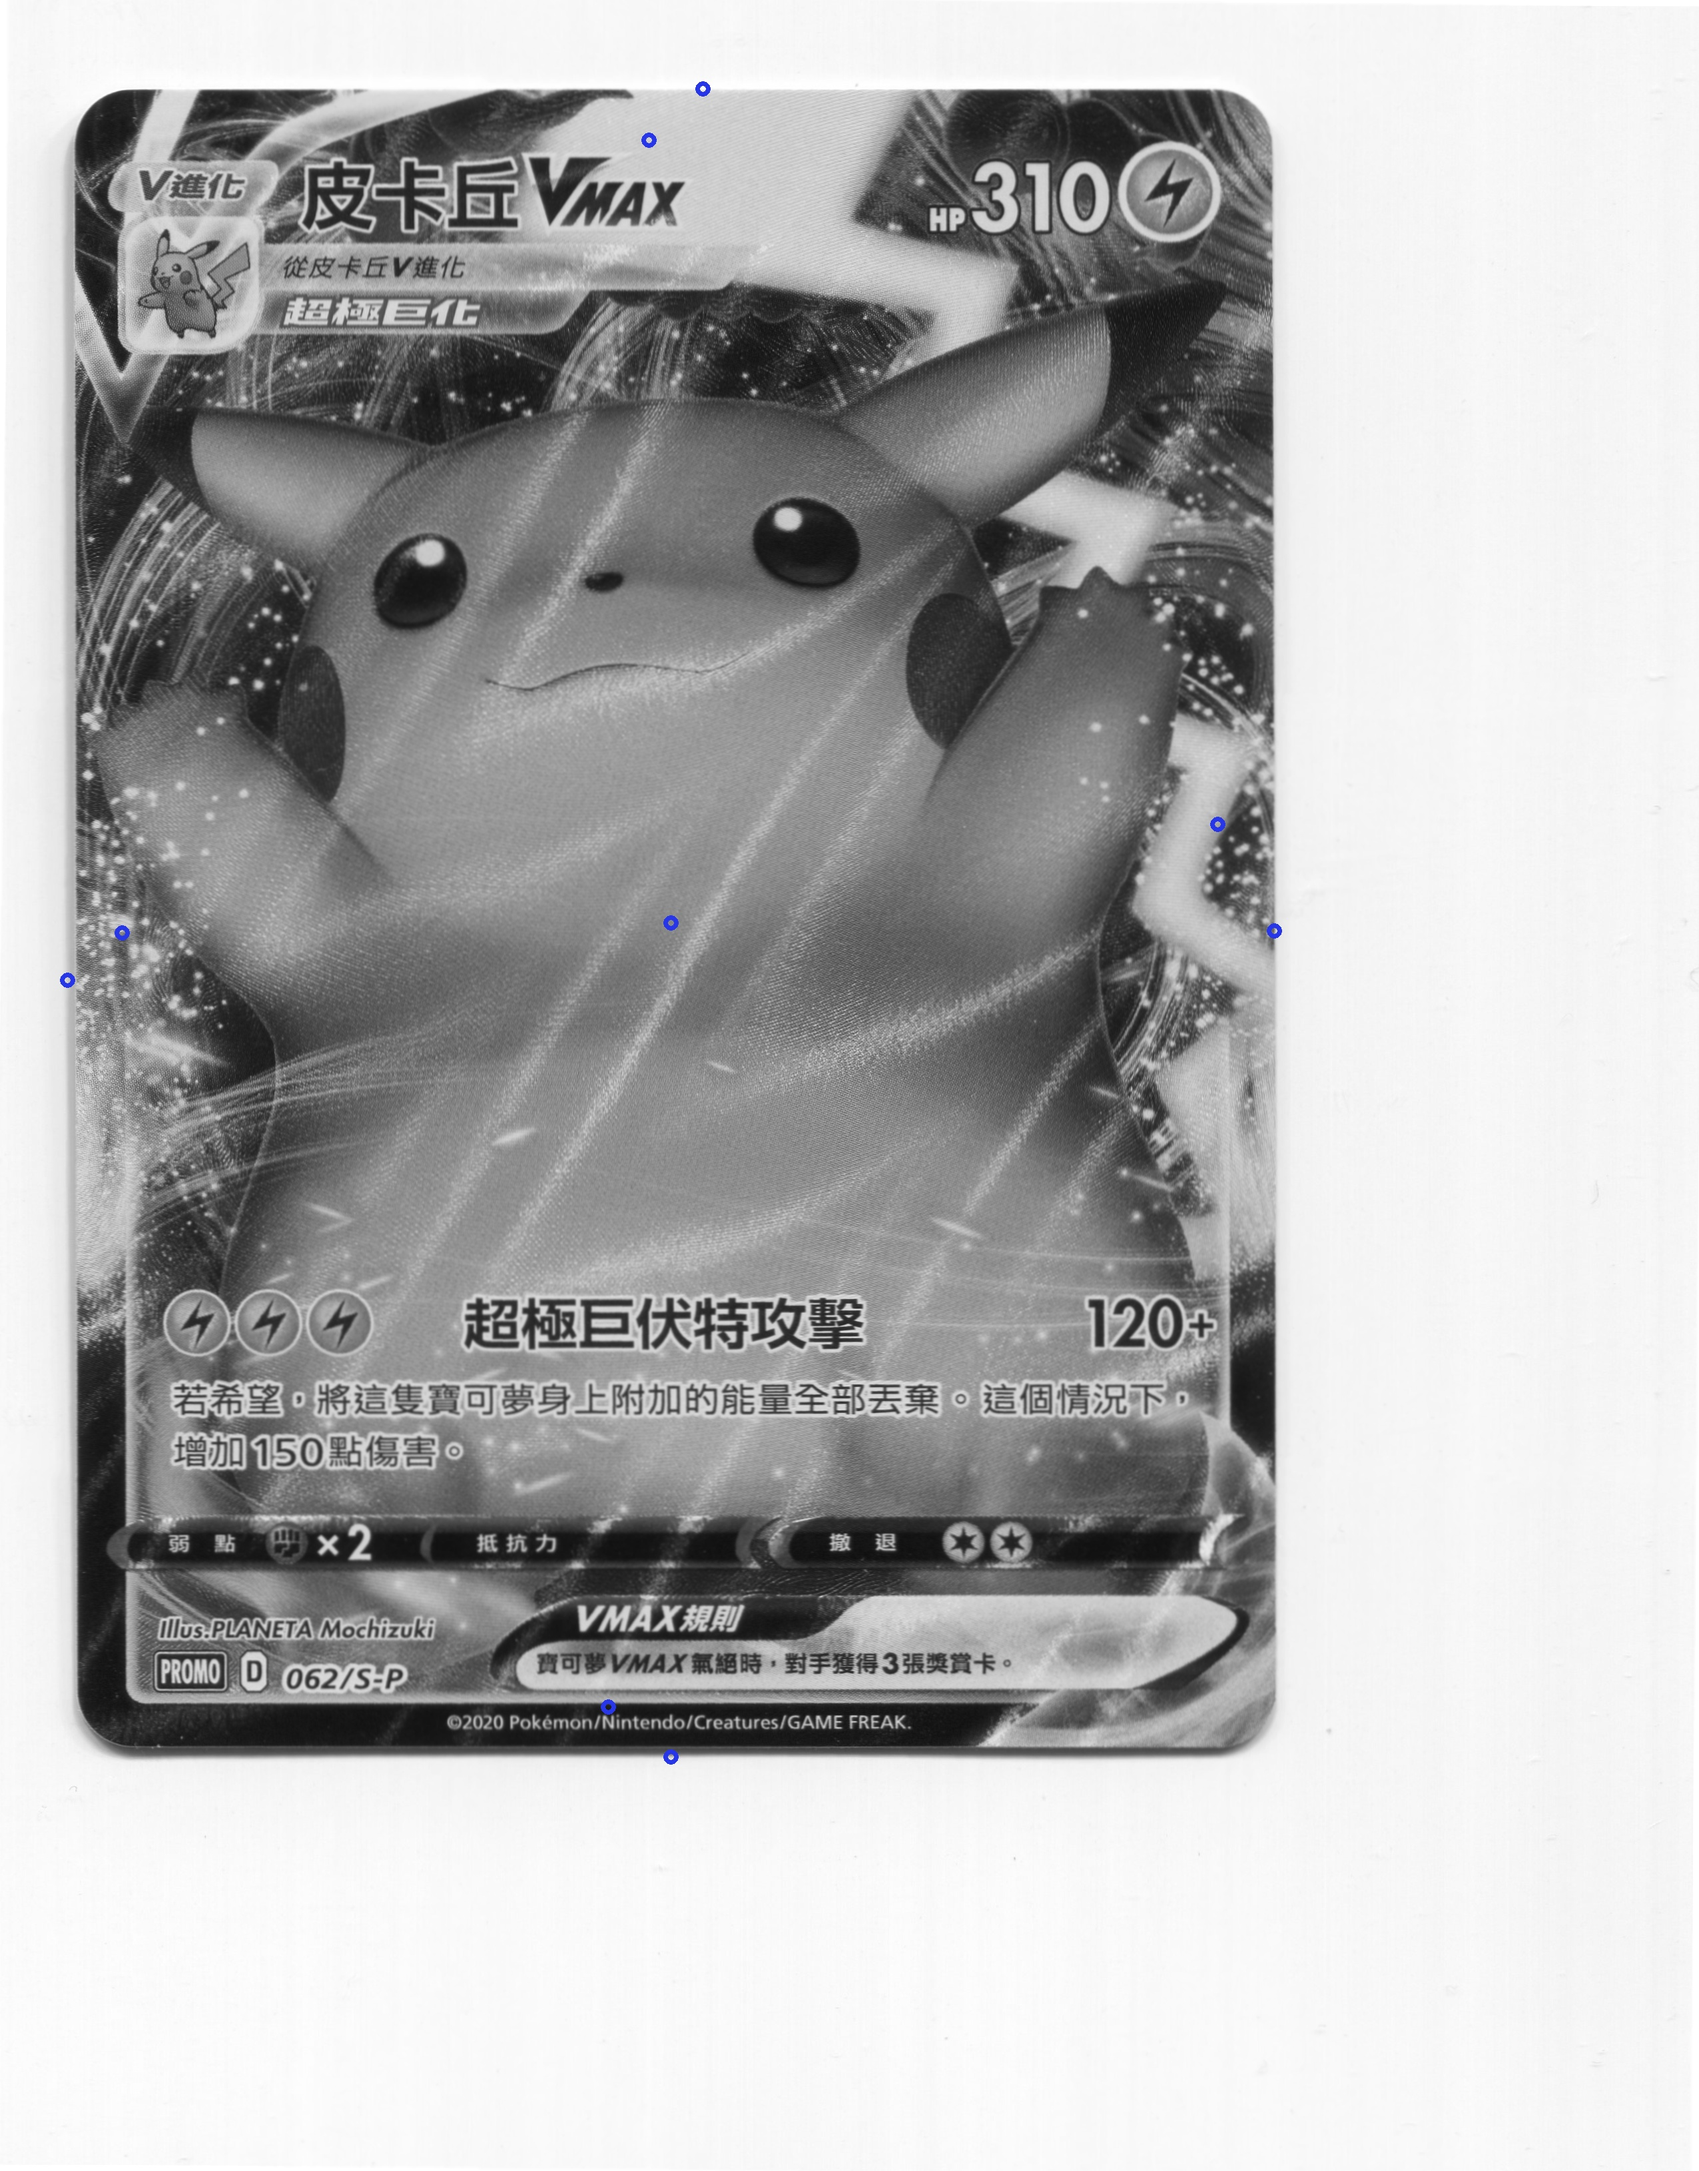
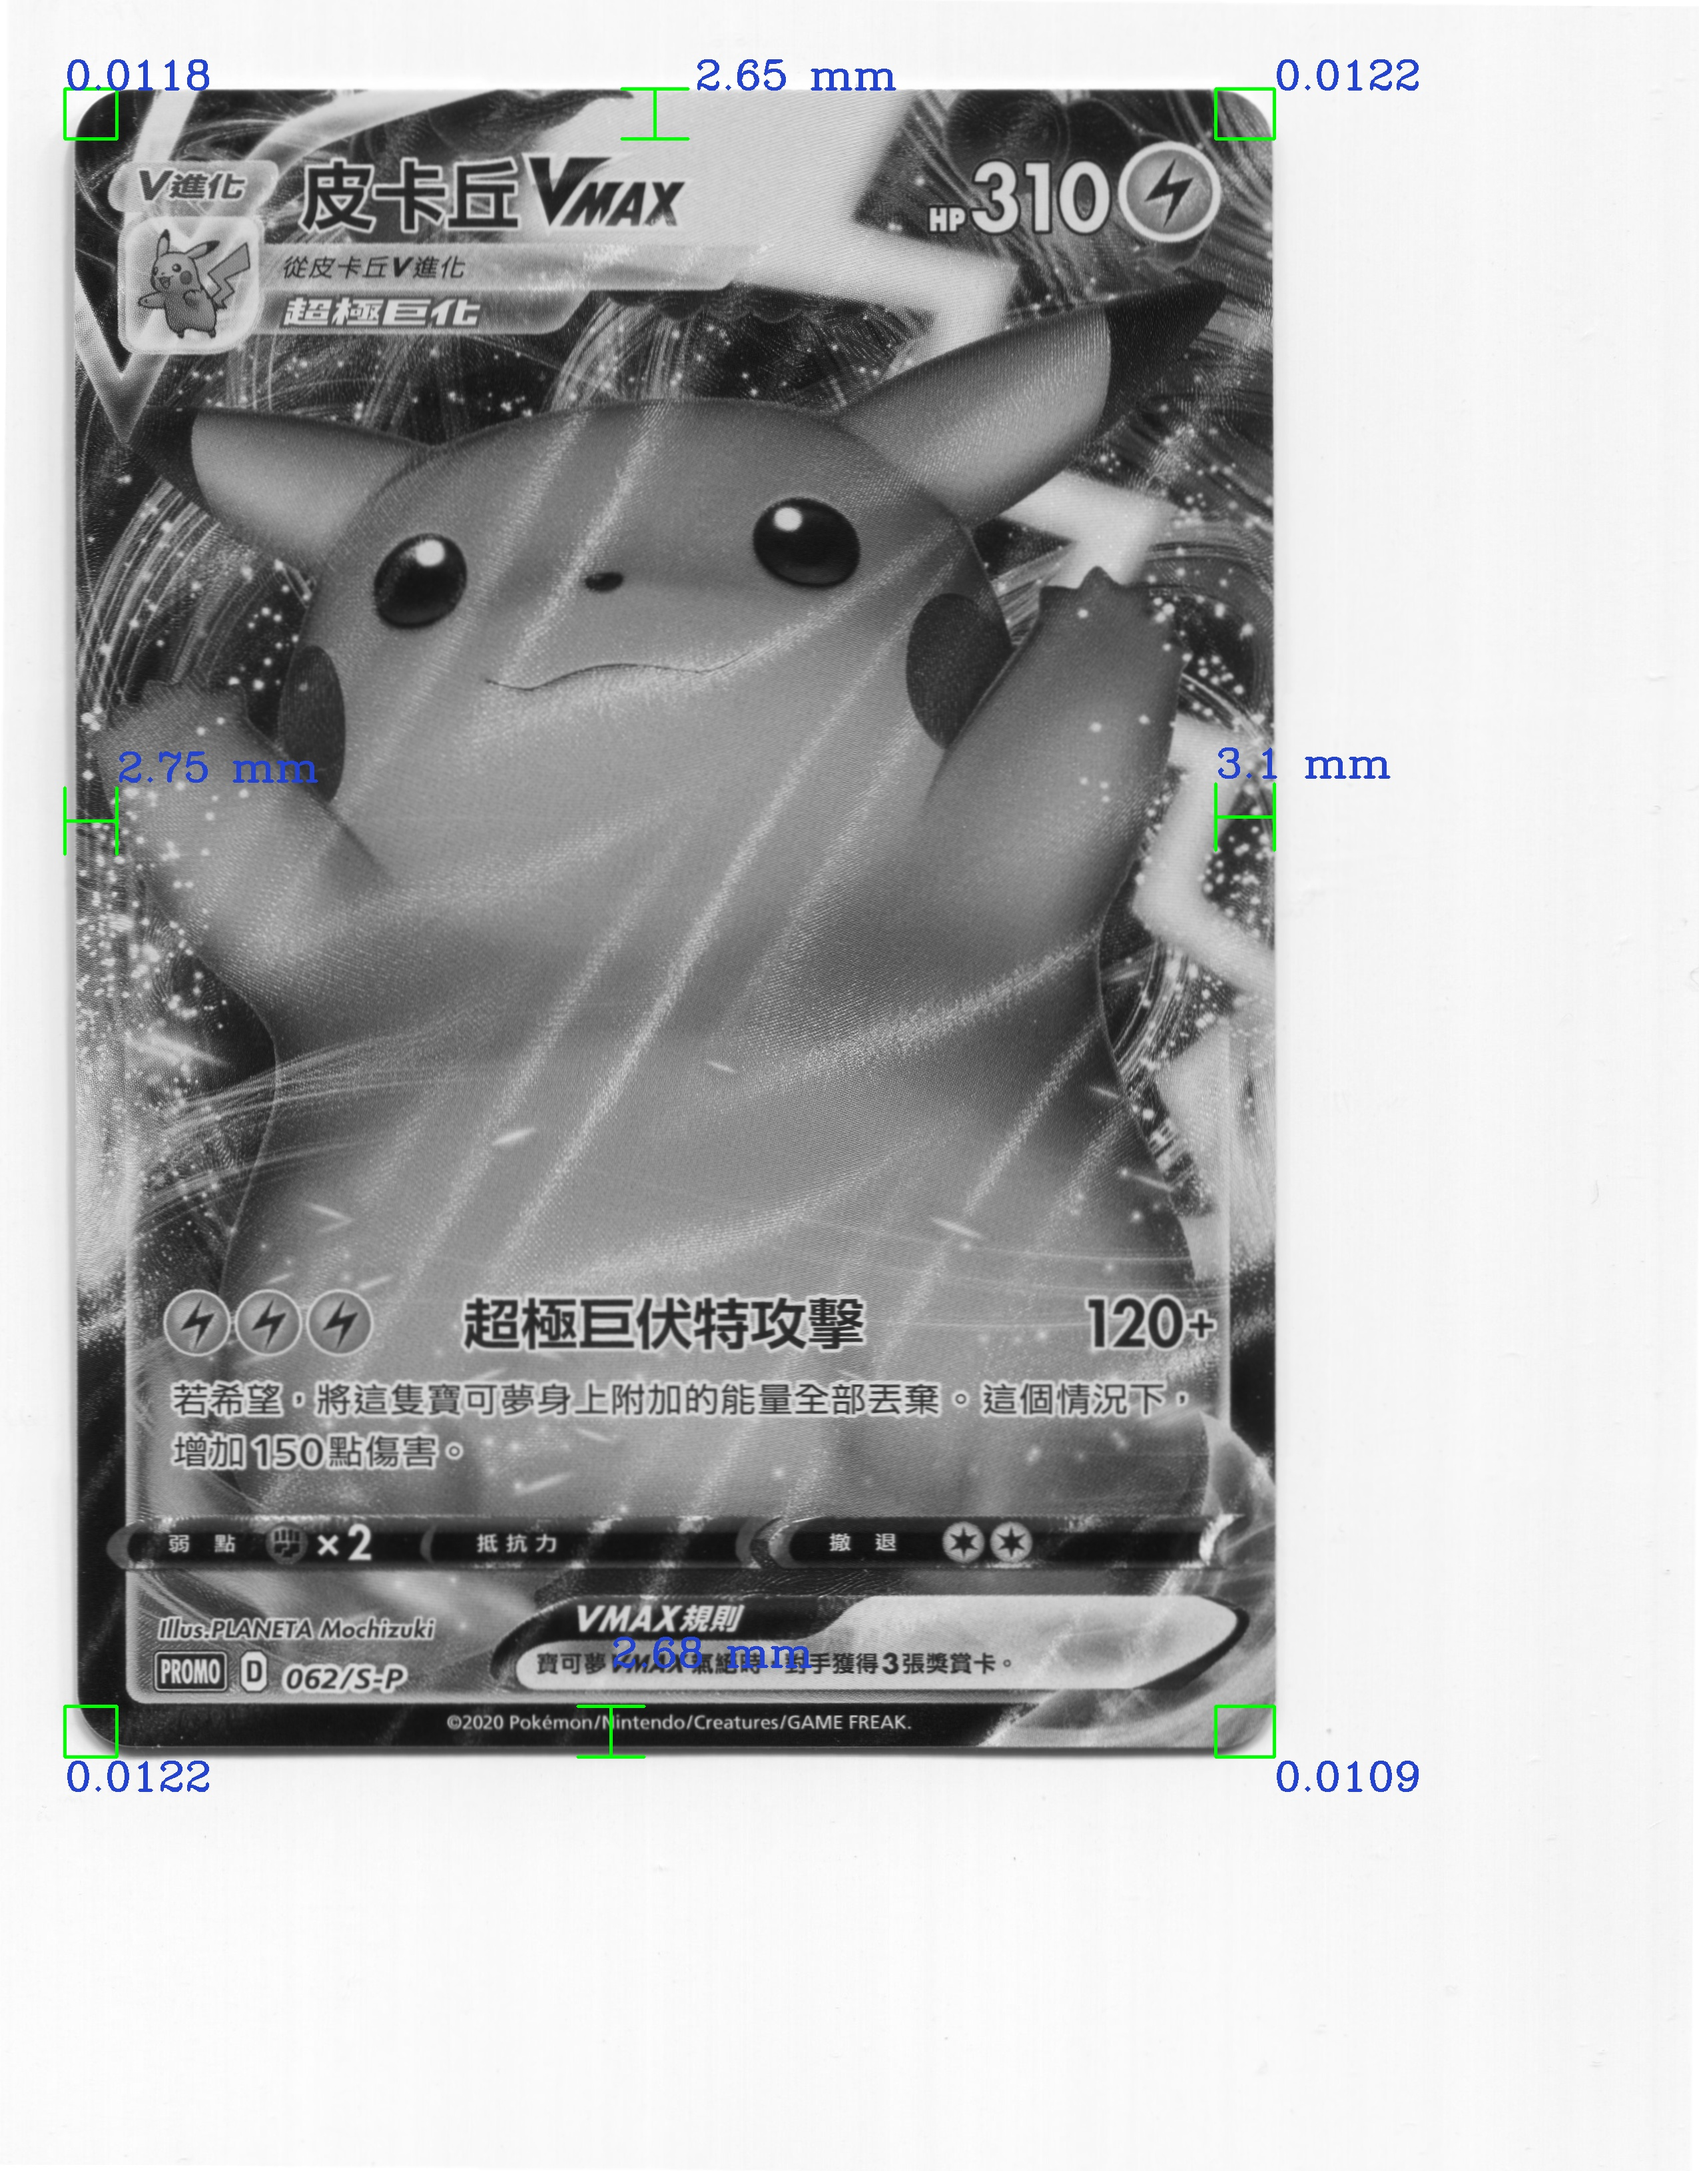
update

diff --git a/CornerMeasurement.py b/CornerMeasurement.py
@@ -20,7 +20,7 @@ class CornerMeasurement(object):
     
     # corners = [top_left_corner, top_right_corner, bottom_left_corner, bottom_right_corner]
     def extract_corner(self, image, corners):
-          
+         
         top_left_corner = corners[0]
         top_right_corner = corners[1]
         bottom_left_corner = corners[2]
@@ -30,24 +30,25 @@ class CornerMeasurement(object):
         filter_top_right_corner = image[top_right_corner[1][1]:top_right_corner[2][1], top_right_corner[1][0]:top_right_corner[0][0]]
         filter_bottom_left_corner = image[bottom_left_corner[1][1]:bottom_left_corner[2][1], bottom_left_corner[0][0]:bottom_left_corner[1][0]]
         filter_bottom_right_corner = image[bottom_right_corner[1][1]:bottom_right_corner[2][1], bottom_right_corner[1][0]:bottom_right_corner[0][0]]
-         
+          
         # EDGE FILTERING
         edge_filter_top_left_corner = self.edge_extraction(filter_top_left_corner)
         edge_filter_top_right_corner = self.edge_extraction(filter_top_right_corner)
-        edge_filter_bottom_left_corner = self.edge_extraction(filter_bottom_left_corner)
-        edge_filter_bottom_right_corner = self.edge_extraction(filter_bottom_right_corner)
+        edge_filter_bottom_left_corner = self.edge_extraction(filter_bottom_left_corner) 
+        edge_filter_bottom_right_corner = self.edge_extraction(filter_bottom_right_corner) 
          
         # SELECT ONLY THE CURVE LINE
         curve_filter_top_left_corner = self.get_curve_line(edge_filter_top_left_corner, top=True)
         curve_filter_top_right_corner = self.get_curve_line(edge_filter_top_right_corner, top=True)
         curve_filter_bottom_left_corner = self.get_curve_line(edge_filter_bottom_left_corner, top=False)
         curve_filter_bottom_right_corner = self.get_curve_line(edge_filter_bottom_right_corner, top=False)
+         
         
         # PLOT THE RESULTS
-        # img_curve_curve_top_left_corner = self.plot_filtered_line(edge_filter_top_left_corner, curve_filter_top_left_corner)
-        # img_curve_filter_top_right_corner = self.plot_filtered_line(edge_filter_top_right_corner, curve_filter_top_right_corner)
-        # img_curve_filter_bottom_left_corner = self.plot_filtered_line(edge_filter_bottom_left_corner, curve_filter_bottom_left_corner)
-        # img_curve_filter_bottom_right_corner= self.plot_filtered_line(edge_filter_bottom_right_corner, curve_filter_bottom_right_corner)
+        img_curve_curve_top_left_corner = self.plot_filtered_line(edge_filter_top_left_corner, curve_filter_top_left_corner)
+        img_curve_filter_top_right_corner = self.plot_filtered_line(edge_filter_top_right_corner, curve_filter_top_right_corner)
+        img_curve_filter_bottom_left_corner = self.plot_filtered_line(edge_filter_bottom_left_corner, curve_filter_bottom_left_corner)
+        img_curve_filter_bottom_right_corner= self.plot_filtered_line(edge_filter_bottom_right_corner, curve_filter_bottom_right_corner)
         
         # PLOT ALL THE RESULS
         # data = [
@@ -112,7 +113,7 @@ class CornerMeasurement(object):
         cv2.imwrite(os.path.join(addr_to_save, f'{initial}_results_{name}.jpg'), img)
         
     def edge_extraction(self, corner):
-        return cv2.Canny(corner, 50, 200, None, 3)
+        return cv2.Canny(corner, 50, 100, None, 3)
      
     def get_curve_line(self, extracted_canny, top=True):   
         xx = [] 

diff --git a/LineUtils.py b/LineUtils.py
@@ -515,7 +515,7 @@ class LineUtils(object):
             print('Passed!', err) 
             
              
-        print('Righ max', c_bottom, c_right, right_max)
+        # print('Righ max', c_bottom, c_right, right_max)
         
         # If there is no update assign with the maximum value 
         if c_top == 0:
@@ -544,12 +544,12 @@ class LineUtils(object):
         bottom_center_coordinate = [int(np.average(np.squeeze(bottom)[:, 0])), int(np.average(np.squeeze(bottom)[:, 1]))]  if len(bottom) > 0 else [0, 0]
         right_center_coordinate = [int(np.average(np.squeeze(right)[:, 0])), int(np.average(np.squeeze(right)[:, 1]))] if len(right) > 0 else [0, 0]
         left_center_coordinate = [int(np.average(np.squeeze(left)[:, 0])), int(np.average(np.squeeze(left)[:, 1]))] if len(left) > 0 else [0, 0]
-        
-        print('wow')
-        
+          
         # update central
         new_central = [left_center_coordinate[0] + abs(right_center_coordinate[0] - left_center_coordinate[0]) // 2, top_center_coordinate[1] + abs(bottom_center_coordinate[1] - top_center_coordinate[1]) // 2]
-         
+          
+        # print('top', top_center_coordinate, 'bottom', bottom_center_coordinate, 'right', right_center_coordinate, 'left', left_center_coordinate, 'central', new_central)
+        
         return cnts, top, bottom, right, left, \
             one_top, two_bottom, one_right, two_left, \
             top_center_coordinate, bottom_center_coordinate, right_center_coordinate, left_center_coordinate, \

diff --git a/app.py b/app.py
@@ -15,6 +15,7 @@ from LineUtils import LineUtils
 from CardRemovalUtils import CardRemovalUtils
 from CardDrawUtils import CardDrawUtils
 from CornerMeasurement import CornerMeasurement
+
  
 class CardMeasurement(object):
     
@@ -68,6 +69,7 @@ class CardMeasurement(object):
             [bottom_center_coordinate[0], bottom_line[1]], \
             [right_line[0], right_center_coordinate[1]], \
             [left_line[0], left_center_coordinate[1]]
+         
         inner_top_line, inner_bottom_line, inner_right_line, inner_left_line = \
             top_center_coordinate, bottom_center_coordinate, right_center_coordinate, left_center_coordinate
         
@@ -96,8 +98,9 @@ class CardMeasurement(object):
                     image_with_corner, corners = self.cardDrawUtils.plot_card_corner_detection(image, outer_top_line, outer_bottom_line, outer_right_line, outer_left_line, inter_top_line, inner_bottom_line, inner_right_line, inner_left_line)
                     
                     # Compute the cornering
-                    curvatories = self.cornerMeasurement.extract_corner(image, corners) 
+                    curvatories = self.cornerMeasurement.extract_corner(image, corners)  
                     curvaturs = self.cornerMeasurement.get_curvatories(curvatories)
+                    
                     curvature_top_left_corner, curvature_top_right_corner, curvature_bottom_left_corner, curvature_bottom_right_corner = curvaturs
  
                     # Draw the measurement

diff --git a/for development only (unused) v2.py b/for development only (unused) v2.py
@@ -17,7 +17,9 @@ from RotationUtils import RotationUtils
 from ContourDetectionUtils import ContourDetectionUtils
 from LineUtils import LineUtils
 from CardRemovalUtils import CardRemovalUtils
-from CardDrawUtils import CardDrawUtils
+from CardDrawUtils import CardDrawUtils 
+from Curvature import ComputeCurvature
+import matplotlib.pyplot as plt
 
 def draw(image=None, is_cnt=False, cnts=[], coordinates=[], thickness=5):
     if is_cnt:
@@ -49,7 +51,7 @@ cardDrawUtils = CardDrawUtils()
 
 addr = './Datasets/cards_dec' 
 addr_to_save = './outputs' 
-img_path = 'vmax_043.jpg'
+img_path = 'gx_051.jpg'
 
 image = cv2.imread(os.path.join(addr, img_path), 1)
 rgb = cv2.cvtColor(image, cv2.COLOR_RGB2GRAY)
